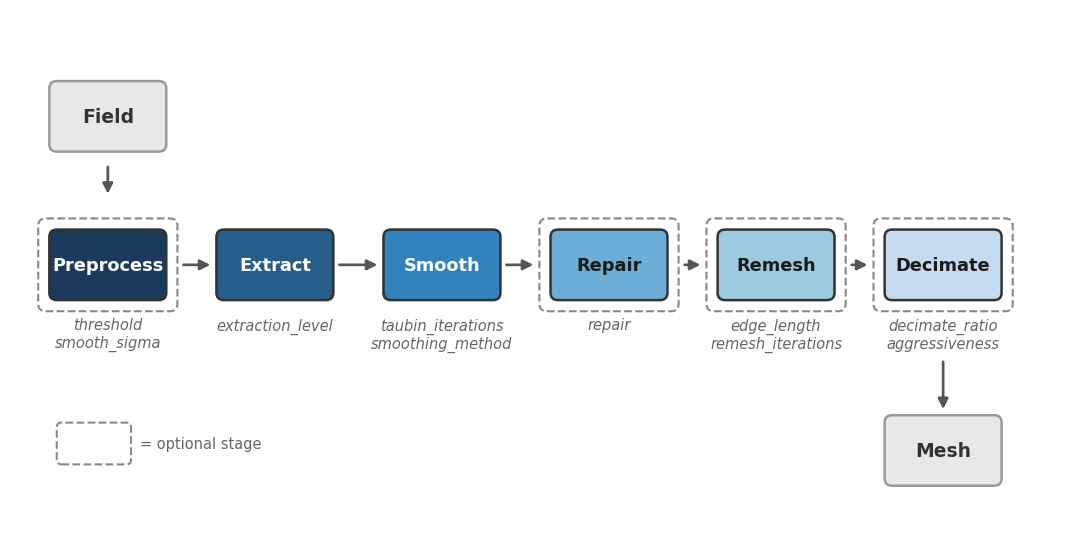
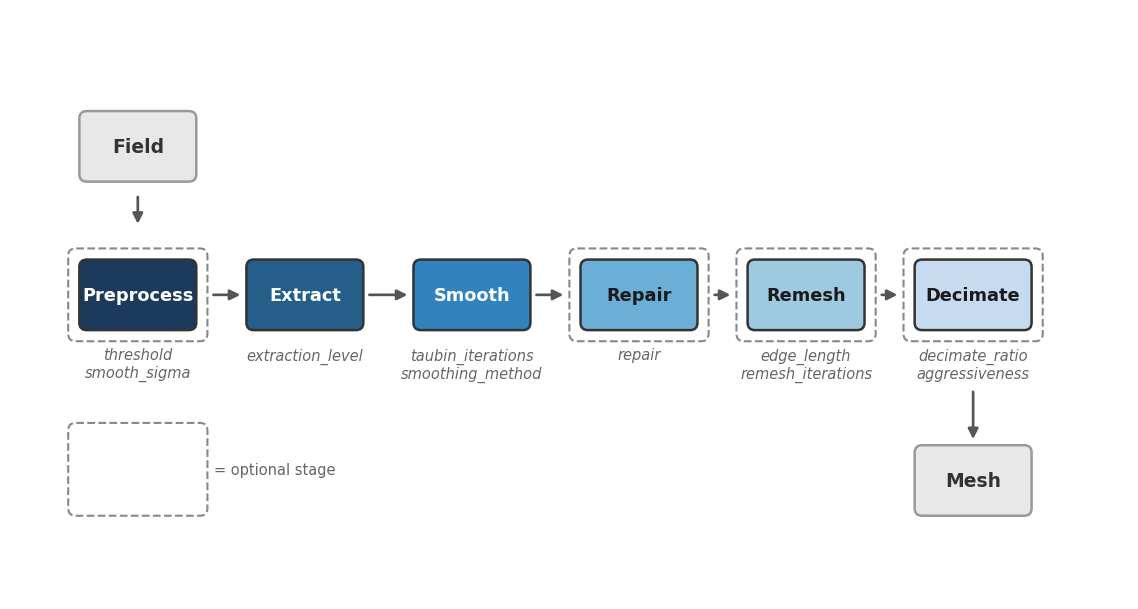
fix: align legend box to stage dimensions, uniform padding on all sides

diff --git a/scripts/generate_doc_images.py b/scripts/generate_doc_images.py
@@ -197,19 +197,21 @@ def gen_pipeline_diagram() -> None:
                 xytext=(mesh_x, mesh_y + box_hh + arrow_gap + 0.6),
                 arrowprops=arrow_kw)
 
-    # --- Legend (bottom-left) ---
-    leg_x = -0.5
-    leg_y = -row_gap - 0.1
+    # --- Legend (bottom-left, aligned with Preprocess dashed outline) ---
+    leg_w = (box_hw + dash_gap) * 2  # same width as dashed outline on stages
+    leg_h = (box_hh + dash_gap) * 2  # same height as dashed outline on stages
+    leg_x = stage_x[0] - box_hw - dash_gap  # left-aligned with Preprocess outline
+    leg_y = mesh_y - box_hh  # bottom-aligned with Mesh box bottom
     ax.add_patch(matplotlib.patches.FancyBboxPatch(
-        (leg_x, leg_y), 0.7, 0.35,
-        boxstyle="round,pad=0.05",
+        (leg_x, leg_y), leg_w, leg_h,
+        boxstyle="round,pad=0.08",
         facecolor="none", edgecolor="#888888", linewidth=1.0, linestyle="--",
     ))
-    ax.text(leg_x + 0.85, leg_y + 0.175, "= optional stage",
+    ax.text(leg_x + leg_w + 0.15, leg_y + leg_h / 2, "= optional stage",
             ha="left", va="center", fontsize=7, color="#666666")
 
     fig.savefig(OUTPUT_DIR / "pipeline-flow.png", dpi=DPI, bbox_inches="tight",
-                facecolor=BG_COLOR)
+                facecolor=BG_COLOR, pad_inches=0.3)
     plt.close(fig)
 
 
